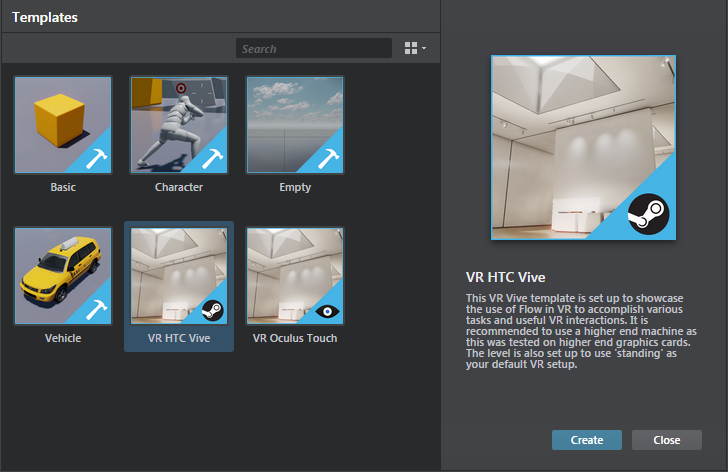
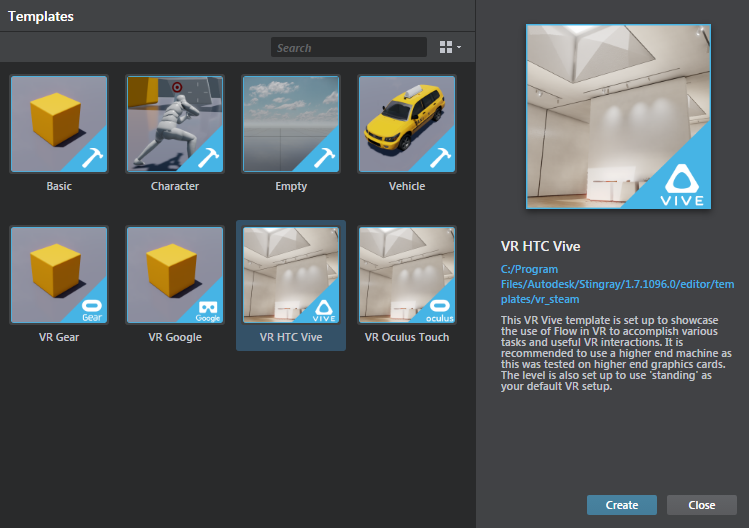
Updates for Daydream controller support  GAME-19770 and GAME 20105

diff --git a/source/stingray_help/deploying/platform_support/reqs_android.md b/source/stingray_help/deploying/platform_support/reqs_android.md
@@ -1,5 +1,7 @@
 # Requirements for Android game development
 
+![UPDATED](../../images/updated.png)
+
 In order to connect the Stingray Editor to an Android device, or to build and deploy your game for Android devices, you must install the requirements listed on this page on your Windows development machine.
 
 ## Java
@@ -18,12 +20,22 @@ The Android SDK also comes with the SDK Manager utility, which you use to manage
 
 Open your Android SDK installation directory in Windows Explorer, and run the `SDK Manager.exe` application.
 
-At a minimum, you must make sure that the SDK Manager has installed:
+![UPDATED](../../images/updated.png)
 
+Make sure that the SDK Manager has installed:
+
+- Android 7.1.1 SDK Platform (API 25)
+- Android 5.0 SDK platform (API 21)
+- Android SDK Tools 25.2.2
+- Android SDK Platform-tools 25
+- Android SDK Build-tools 25
+
+<!--
 -	`Android SDK Platform-tools`: **Rev. 23.0.1 or higher**
 -	`Android SDK Build-tools`: **Rev. 21.0.0 or higher -- see below**
 
 	>	**NOTE:** Install a version of the `Android SDK Build-tools` that is compatible with the version of the Android operating system that you have installed on your target device. For example, Android 6.0 requires at least Rev. 23, Android 5.11 requires at least Rev. 22. For more information on version compatibility, see the [Android SDK build tools release notes](https://developer.android.com/studio/releases/build-tools.html).
+-->
 
 ## Environment variables
 

diff --git a/source/stingray_help/getting_started/set_up_project/template_projects.md b/source/stingray_help/getting_started/set_up_project/template_projects.md
@@ -50,7 +50,12 @@ The VR Oculus Touch template supports input from the Oculus Remote and Oculus To
 Use a Steam VR device to visually interact with the scenes in this template.</dd>
 
 <dt>[![NEW](../../images/new.png "What else is new in v1.7?")](../../release_notes/readme_1.7.html) VR Google</dt>
-<dd>This template demonstrates simple usage of the GoogleVR plug-in API for Cardboard and Daydream.</dd>
+<dd>This template demonstrates simple usage of the GoogleVR plug-in API for Cardboard and Daydream.
+
+This template supports Google Cardboard for iOS and Android, and Google Daydream with Daydream controller support for Android devices.
+
+Use iOS devices, Android 7.x+ devices like Nexus 9 or a Daydream device like Pixel with this template.
+</dd>
 
 <dt>[![NEW](../../images/new.png "What else is new in v1.7?")](../../release_notes/readme_1.7.html) VR Gear</dt>
 <dd>This template demonstrates simple usage of the GearVR plug-in API.</dd>

diff --git a/source/stingray_help/lighting_rendering/vr_stingray/vr_build_experiences.md b/source/stingray_help/lighting_rendering/vr_stingray/vr_build_experiences.md
@@ -1,6 +1,6 @@
 # Build VR experiences using Stingray
 
-The Stingray Editor ships with a few sample projects to help you get started, including templates for both the HTC Vive and Oculus Rift. The best way to start a new VR project is to clone one of the VR templates instead of starting completely from scratch.
+The Stingray Editor ships with a few sample projects to help you get started, including templates for HTC Vive, Oculus Rift and mobile VR devices. The best way to start a new VR project is to clone one of the VR templates instead of starting completely from scratch.
 
 By default, template projects install in the following location: C:\Program Files\Autodesk\Singray\<version>\editor\templates.
 

diff --git a/source/stingray_help/deploying/platform_support.md b/source/stingray_help/deploying/platform_support.md
@@ -60,6 +60,8 @@ Devices running older versions may or may not work as expected.
 
 >**Note:** The Oculus Remote and Oculus Touch Controller are also supported.
 
+>**Note:** Stingray also supports Google Cardboard for iOS and Android, and Google Daydream and Daydream controller for Android.
+
 ## Platform libraries
 
 Stingray is built with the following set of libraries for its target platforms. You may need this information for compatibility.

diff --git a/source/stingray_help/deploying/package_for_android.md b/source/stingray_help/deploying/package_for_android.md
@@ -41,6 +41,9 @@ These settings are common for all tabs. See ~{ Using the Deployer panel }~.
 
 <dt>Version</dt>
 <dd>The application version, in two-part notation.</dd>
+
+<dt>Android flavor</dt>
+<dd>Select from either the regular, Gear VR, or Google VR enabled Android engine.</dd>
 </dl>
 
 ### Icons settings
